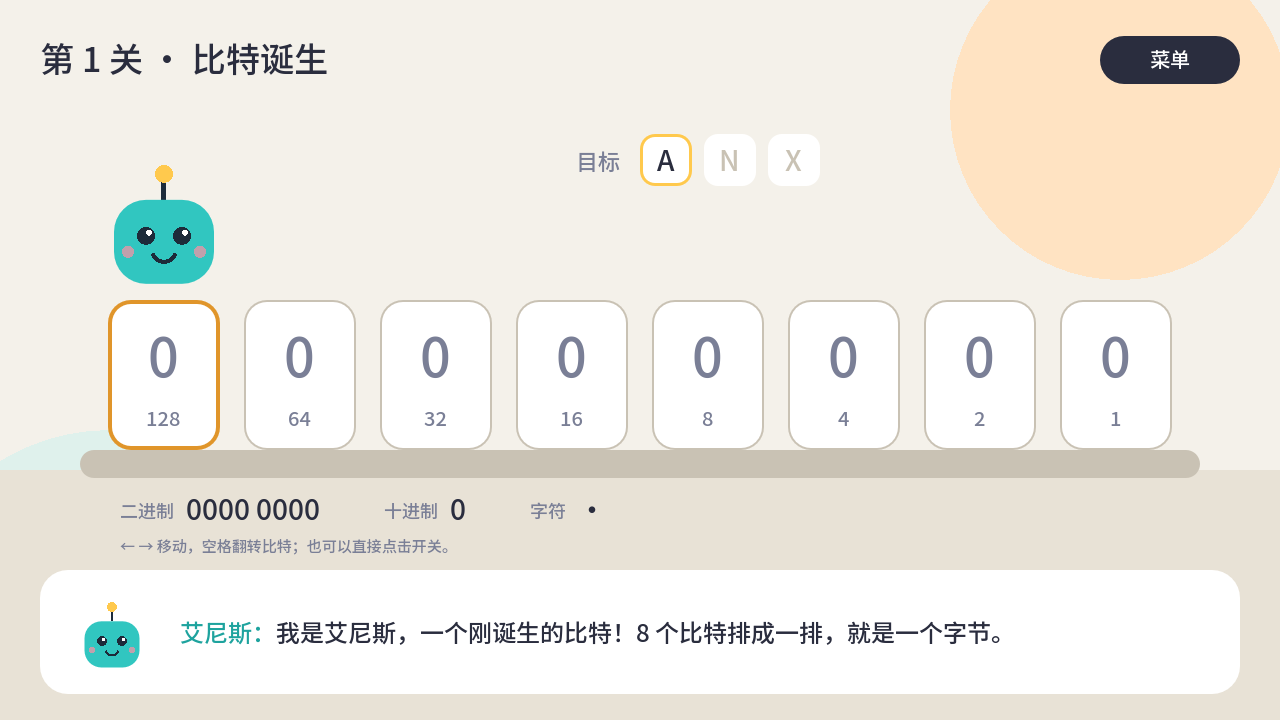
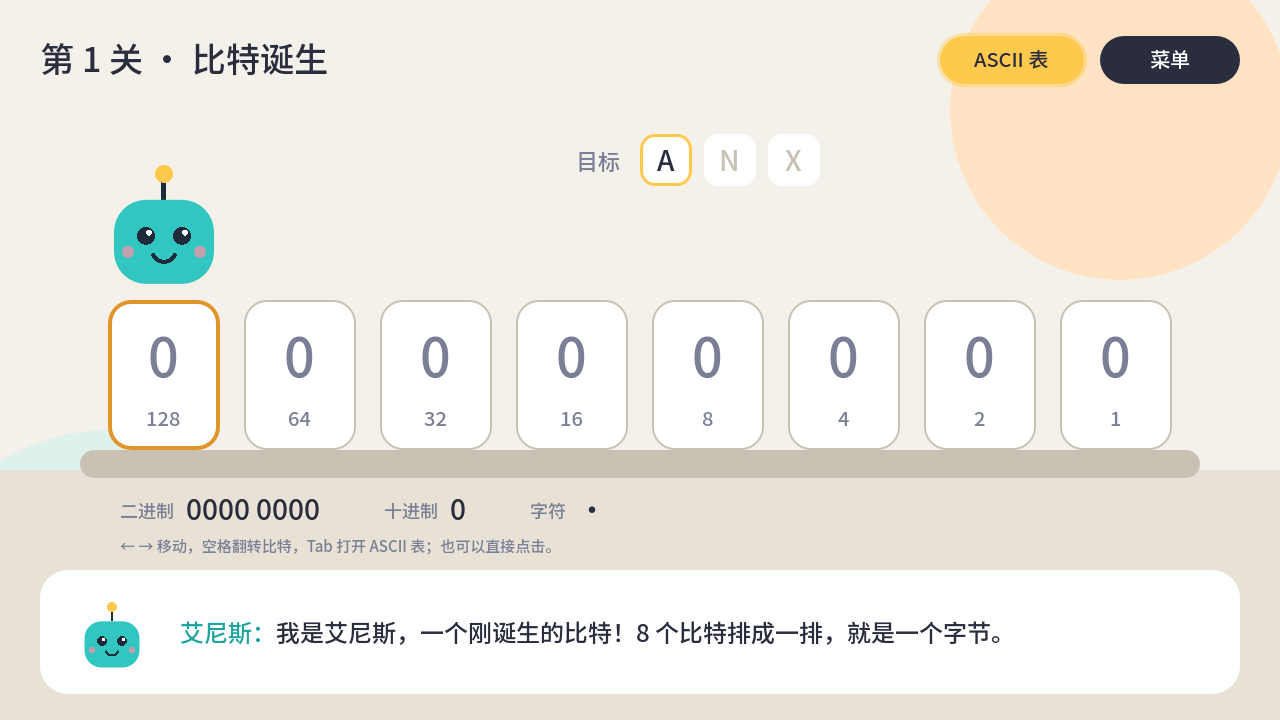
Add ASCII table to Level 1
A button (and Tab) opens a table of A-Z with decimal and binary codes,
highlighting the goal letter in yellow and the current byte in teal.
The button pulses until the player opens it once, and the hint now
points players to the table.

Claude-Session: https://claude.ai/code/session_01TY39Fuv4jRCeC6sdC99MfJ

Changed region(s): [[0.7188, 0.0306, 0.875, 0.1222], [0.25, 0.7333, 0.4375, 0.7639]]

diff --git a/README.md b/README.md
@@ -11,7 +11,8 @@ A cross-platform game about how computers really work. You play ANX, a newborn b
 
 第 1 关「比特诞生」可玩原型：翻转 8 个开关组成一个字节，依次拼出 A、N、X 的 ASCII 码，通关后解锁知识卡。
 
-- 操作：← → 移动，空格翻转；鼠标或触屏直接点击开关
+- 操作：← → 移动，空格翻转，Tab 打开 ASCII 表；鼠标或触屏直接点击开关
+- ASCII 表：右上角按钮随时打开，列出 A–Z 的十进制和二进制编码，标出目标字母和当前拼出的字母
 - 主菜单选择中文或 English，选择会保存下来；关卡右上角「菜单」返回，Esc 也可以
 - 全部画面用代码绘制（扁平矢量风格），暂无美术素材
 
@@ -23,6 +24,7 @@ A cross-platform game about how computers really work. You play ANX, a newborn b
 godot --path .                       # 运行游戏 / play
 godot --headless --path . -s tests/test_bit_logic.gd   # 单元测试 / unit tests
 godot --path . res://scenes/level_01.tscn -- --demo=complete   # 直接显示通关画面，方便截图
+godot --path . res://scenes/level_01.tscn -- --demo=table      # 直接显示 ASCII 表
 ```
 
 也可以用 Godot 编辑器打开 `project.godot`，按 F5 运行。
